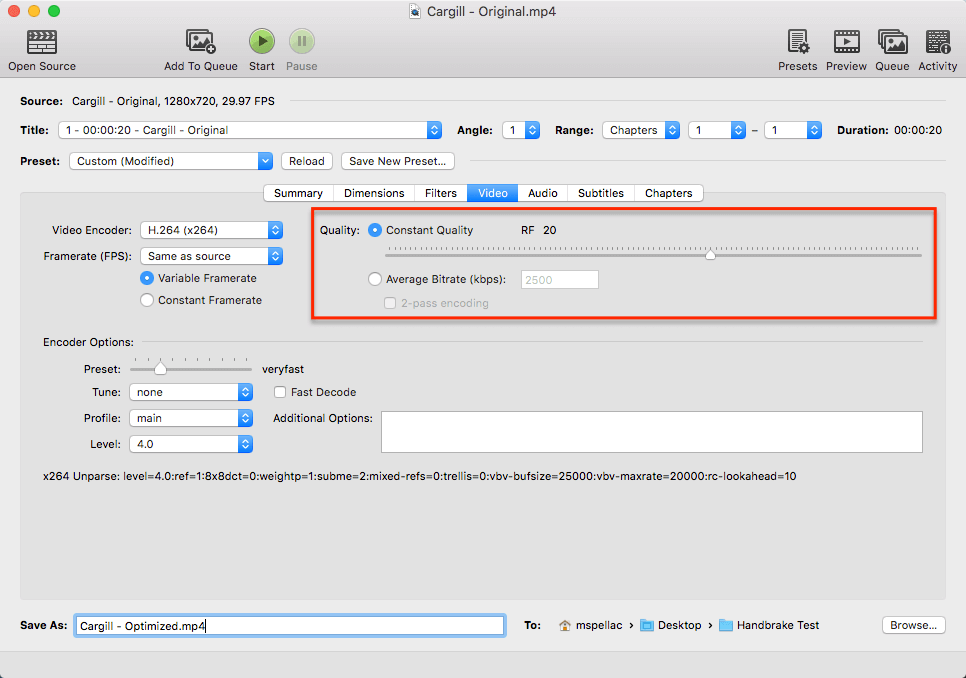
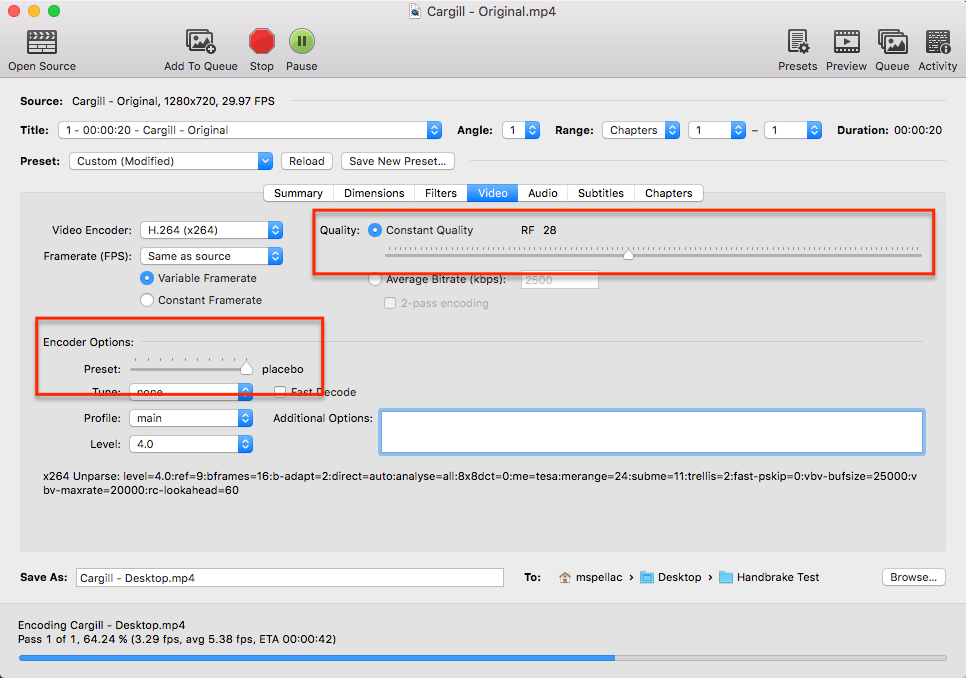
Placebo Update

diff --git a/handbrake/index.html b/handbrake/index.html
@@ -27,7 +27,7 @@ max-width: 966px;
 <ol>
   <li>Open your source video. HandbBrake is capable of opening up many different kinds of video types.</li>
   <li>Doublecheck the duration of the video. The length of the video will contribute to overall file size, so a video no longer than 30 seconds for banners is usually recommended.</li>
-  <li>Ensure that your output container is <b>MP4</b>. This format has pretty much become the de facto standard for web based video.</li>
+  <li>Ensure that your output container is <b>MP4</b>. This format has pretty much become the de facto standard for web based video. VHB will <a href="https://github.com/michaelspellacy/video-hero-banner/issues/10">suppoprt WebM</a>, another popular and more effecient video format, soon.</li>
   <li>Make sure the <b>Web Optimized</b> checkbox is clicked on. This will help improve streaming of the video over slower networks.</li>
   <li>Create a new file name and choose an output path.</li>
 </ol>
@@ -50,6 +50,7 @@ max-width: 966px;
 <ol>
   <li>Select the quality of your video. A default range of <b>20</b> is generally good, but has little impact on file size.</li>
   <li>A range between <b>26</b> and <b>28</b> can usually be depended upon to deliver good quality video, with a reduced file size.</li>
+  <li>Adjust <b>Encoder Options</b> to <b>Placebo</b>. This trades off compression effeciency against encoding speed and may improve file size without sacrificing quality.</li>
   <li>For desktop, we should be shooting for <b>2-3MB</b> in file size. A mobile version of the video, if needed, should obviously be smaller.</li>
 </ol>
 
